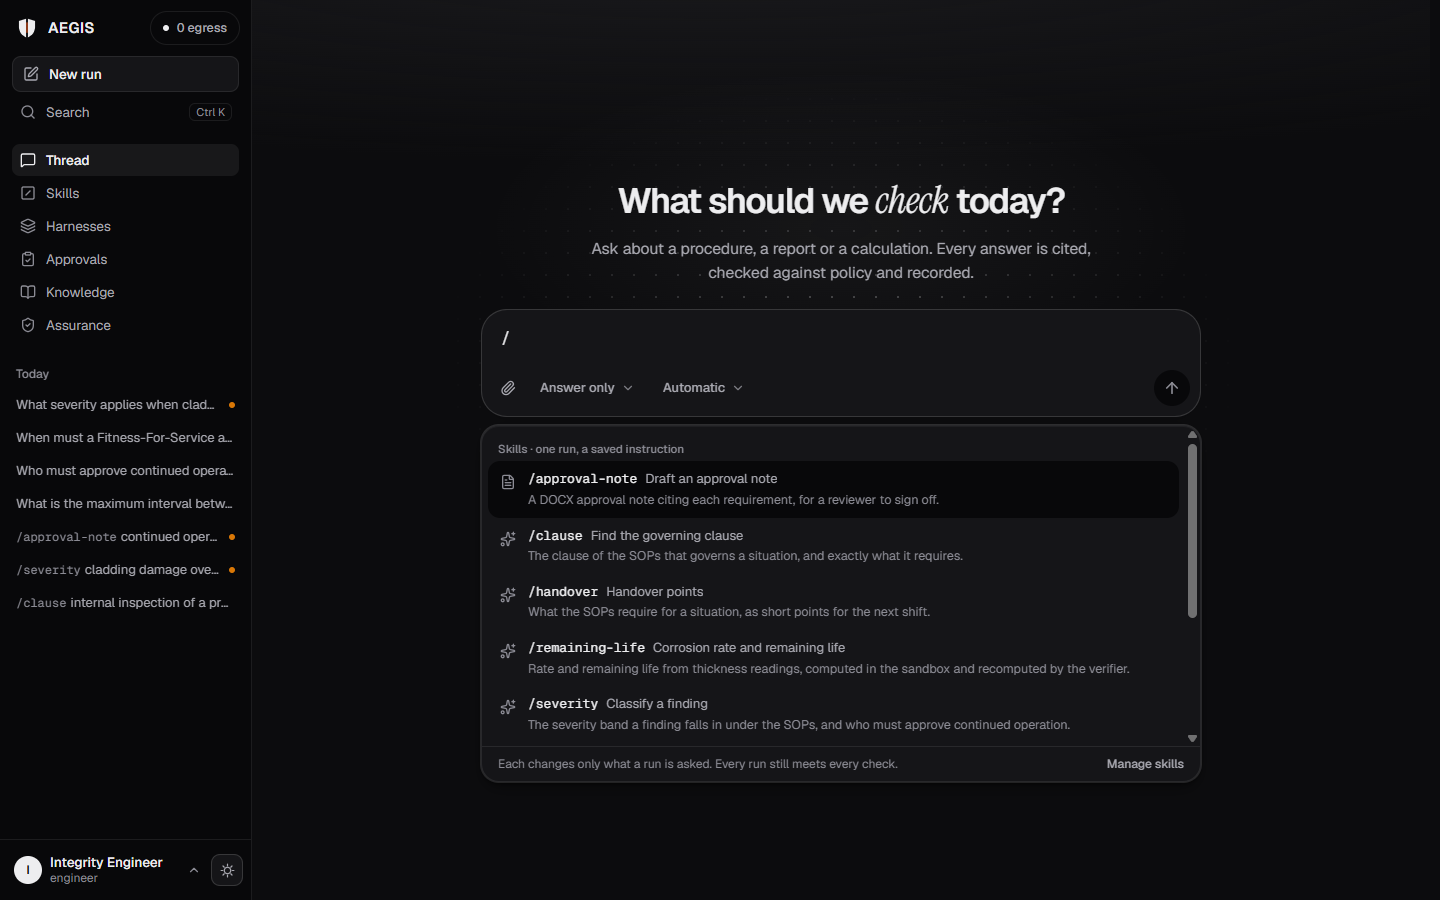
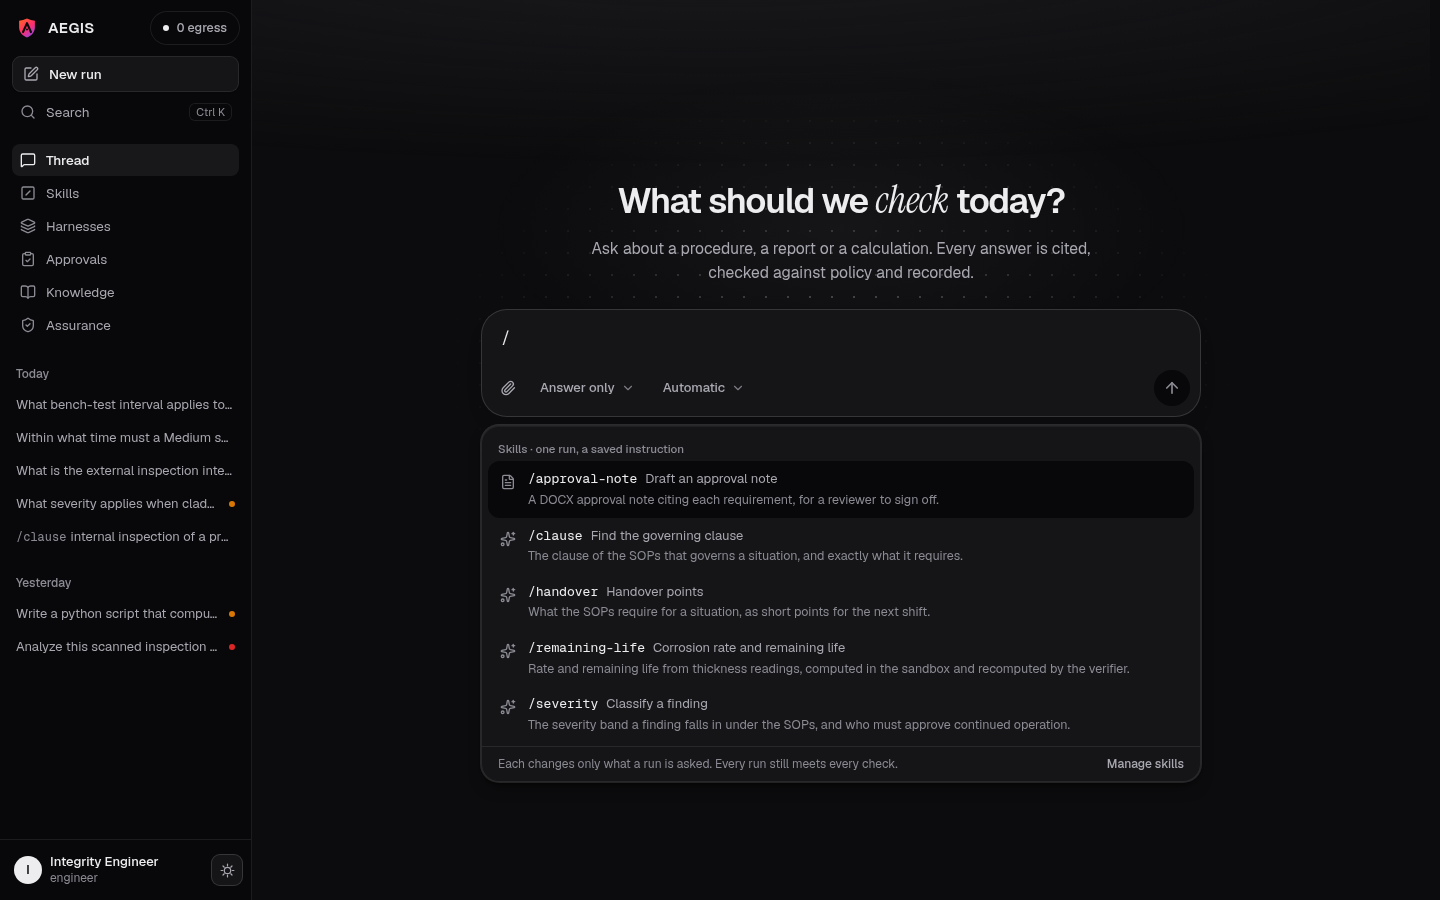
Retake the product screenshots with the new mark, in light and dark
Every screenshot showed the old split shield in the sidebar, so the
landing gallery and the README images are recaptured from a running
instance on the synthetic corpus.

- Landing gallery: thread, skills, harness, approvals, sandbox and audit,
  each in light and dark, at the same 1440x900 as before.
- README: the same screens plus the landing page, sign-in, the held run,
  Knowledge and Assurance, each with a dark variant.

What they show is what the runs did: a /clause answer delivered with six
of six checks and cited to SOP-INS-014 2.2; the cladding question held
because retrieval admitted a Restricted memo; a three-question SOP sweep
with every item traced; a memory bomb contained at the 1024 MB cap; the
self-test holding 7 of 7; and the audit chain recomputed by the server
and in the browser to the same head. The gallery's thread caption now
matches its picture.

diff --git a/frontend/app/(marketing)/page.tsx b/frontend/app/(marketing)/page.tsx
@@ -137,7 +137,7 @@ const GALLERY: GallerySlide[] = [
     body: 'A run reads like a terminal session: each step with its time, the passages it found, the model’s tokens and the checks, then the cited answer.',
     light: '/landing/shots/thread-light.png',
     dark: '/landing/shots/thread-dark.png',
-    alt: 'The AEGIS thread: a /clause request, the run as a transcript of its steps with times, tokens and four passed checks, and the answer citing S1.',
+    alt: 'The AEGIS thread: a /clause request delivered in 18.8 s with six of six checks passed, and the answer citing S1, SOP-INS-014 §2.2.',
   },
   {
     id: 'skills',
